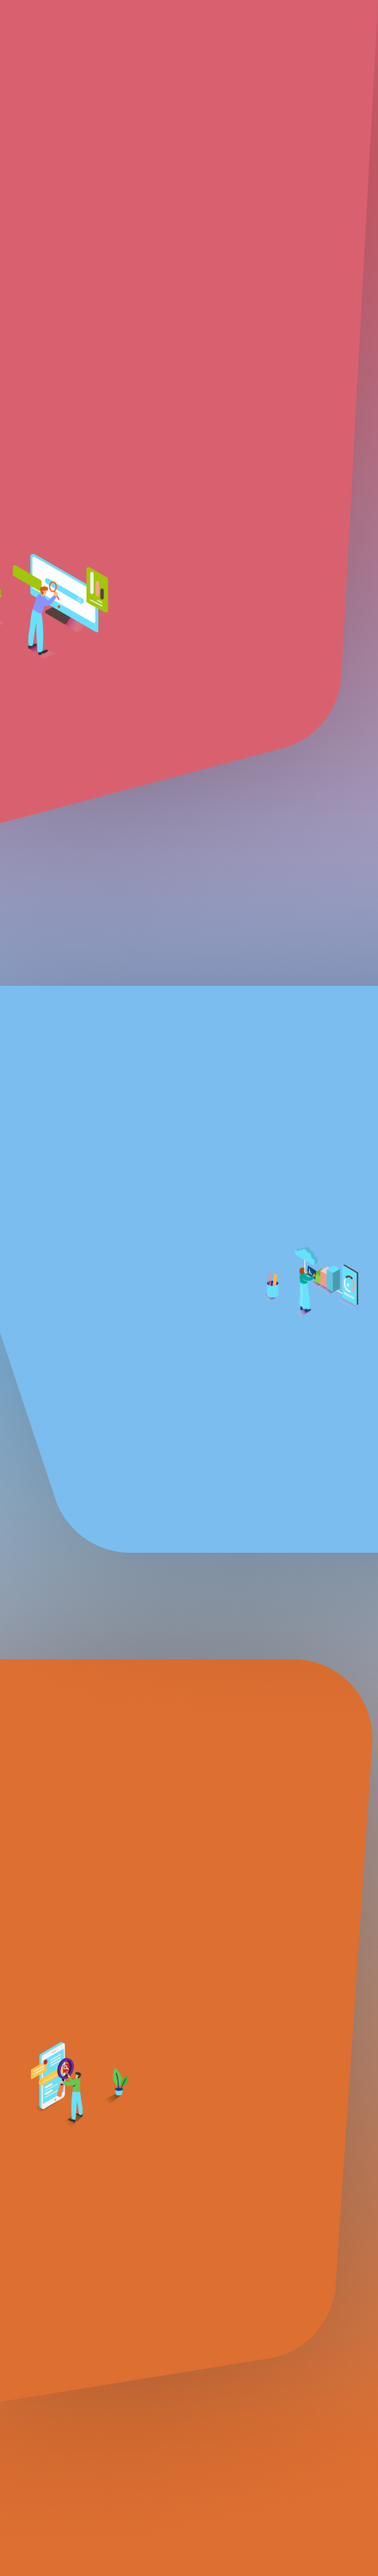
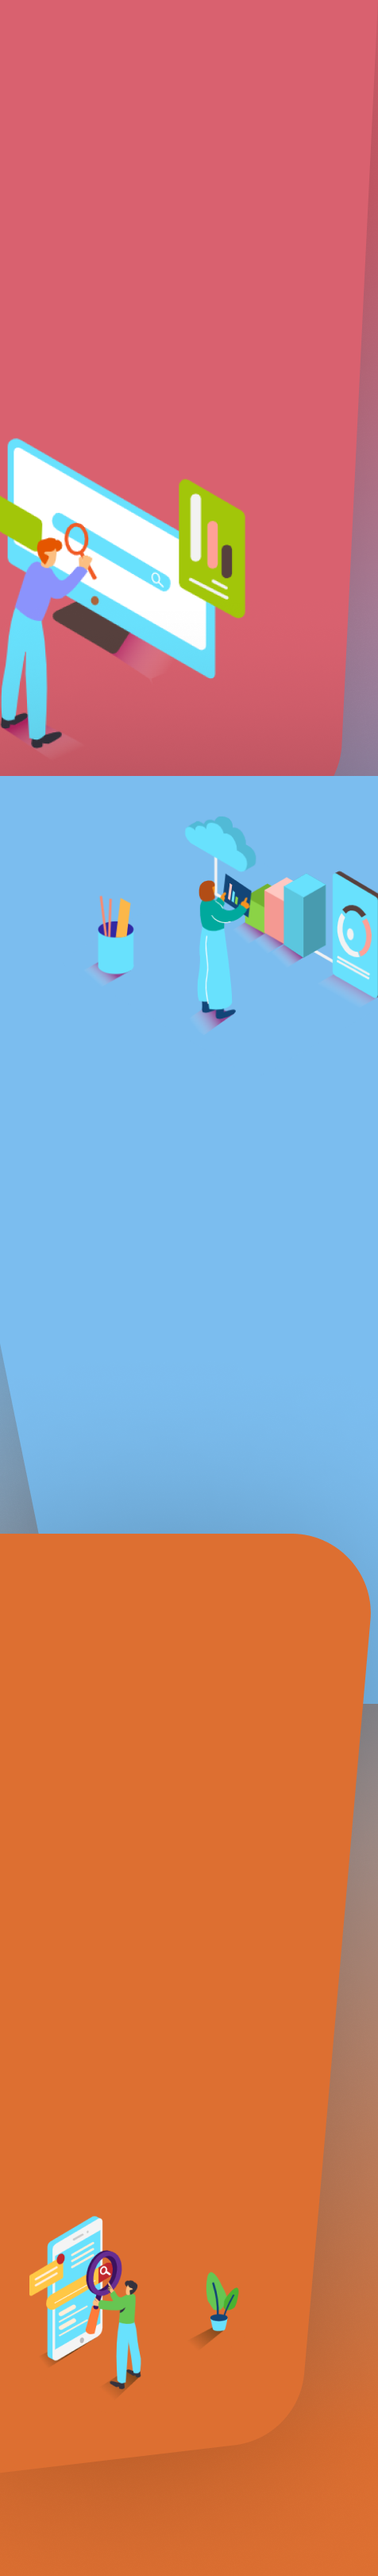
try to fix mobile media

diff --git a/style.css b/style.css
@@ -25,7 +25,7 @@ body {
   width: 100vw;
   background: black;
   background-image: url(Images/bg1920.png);
-  background-position: cover;
+  background-size: cover;
   background-repeat: no-repeat;
 }
 
@@ -221,7 +221,7 @@ a:hover {
   display: flex;
   flex-direction: column;
   align-items: flex-start;
-  width: auto;
+  width: 600px;
   height: 500px;
   visibility: hidden;
   overflow: scroll;
@@ -313,6 +313,9 @@ a:hover {
     height: 50px;
     font-size: 20px;
   }
+  #links {
+    width: 500px;
+  }
   .infoHeader {
     width: 800px;
     font-size: 35px;
@@ -360,6 +363,9 @@ a:hover {
     width: 75px;
     height: 40px;
     font-size: 15px;
+  }
+  #links {
+    width: 400px;
   }
   #textID {
     width: 430px;
@@ -418,6 +424,9 @@ a:hover {
     width: 70px;
     height: 30px;
     font-size: 13px;
+  }
+  #links {
+    width: 300px;
   }
   #logout {
     font-size: 13px;
